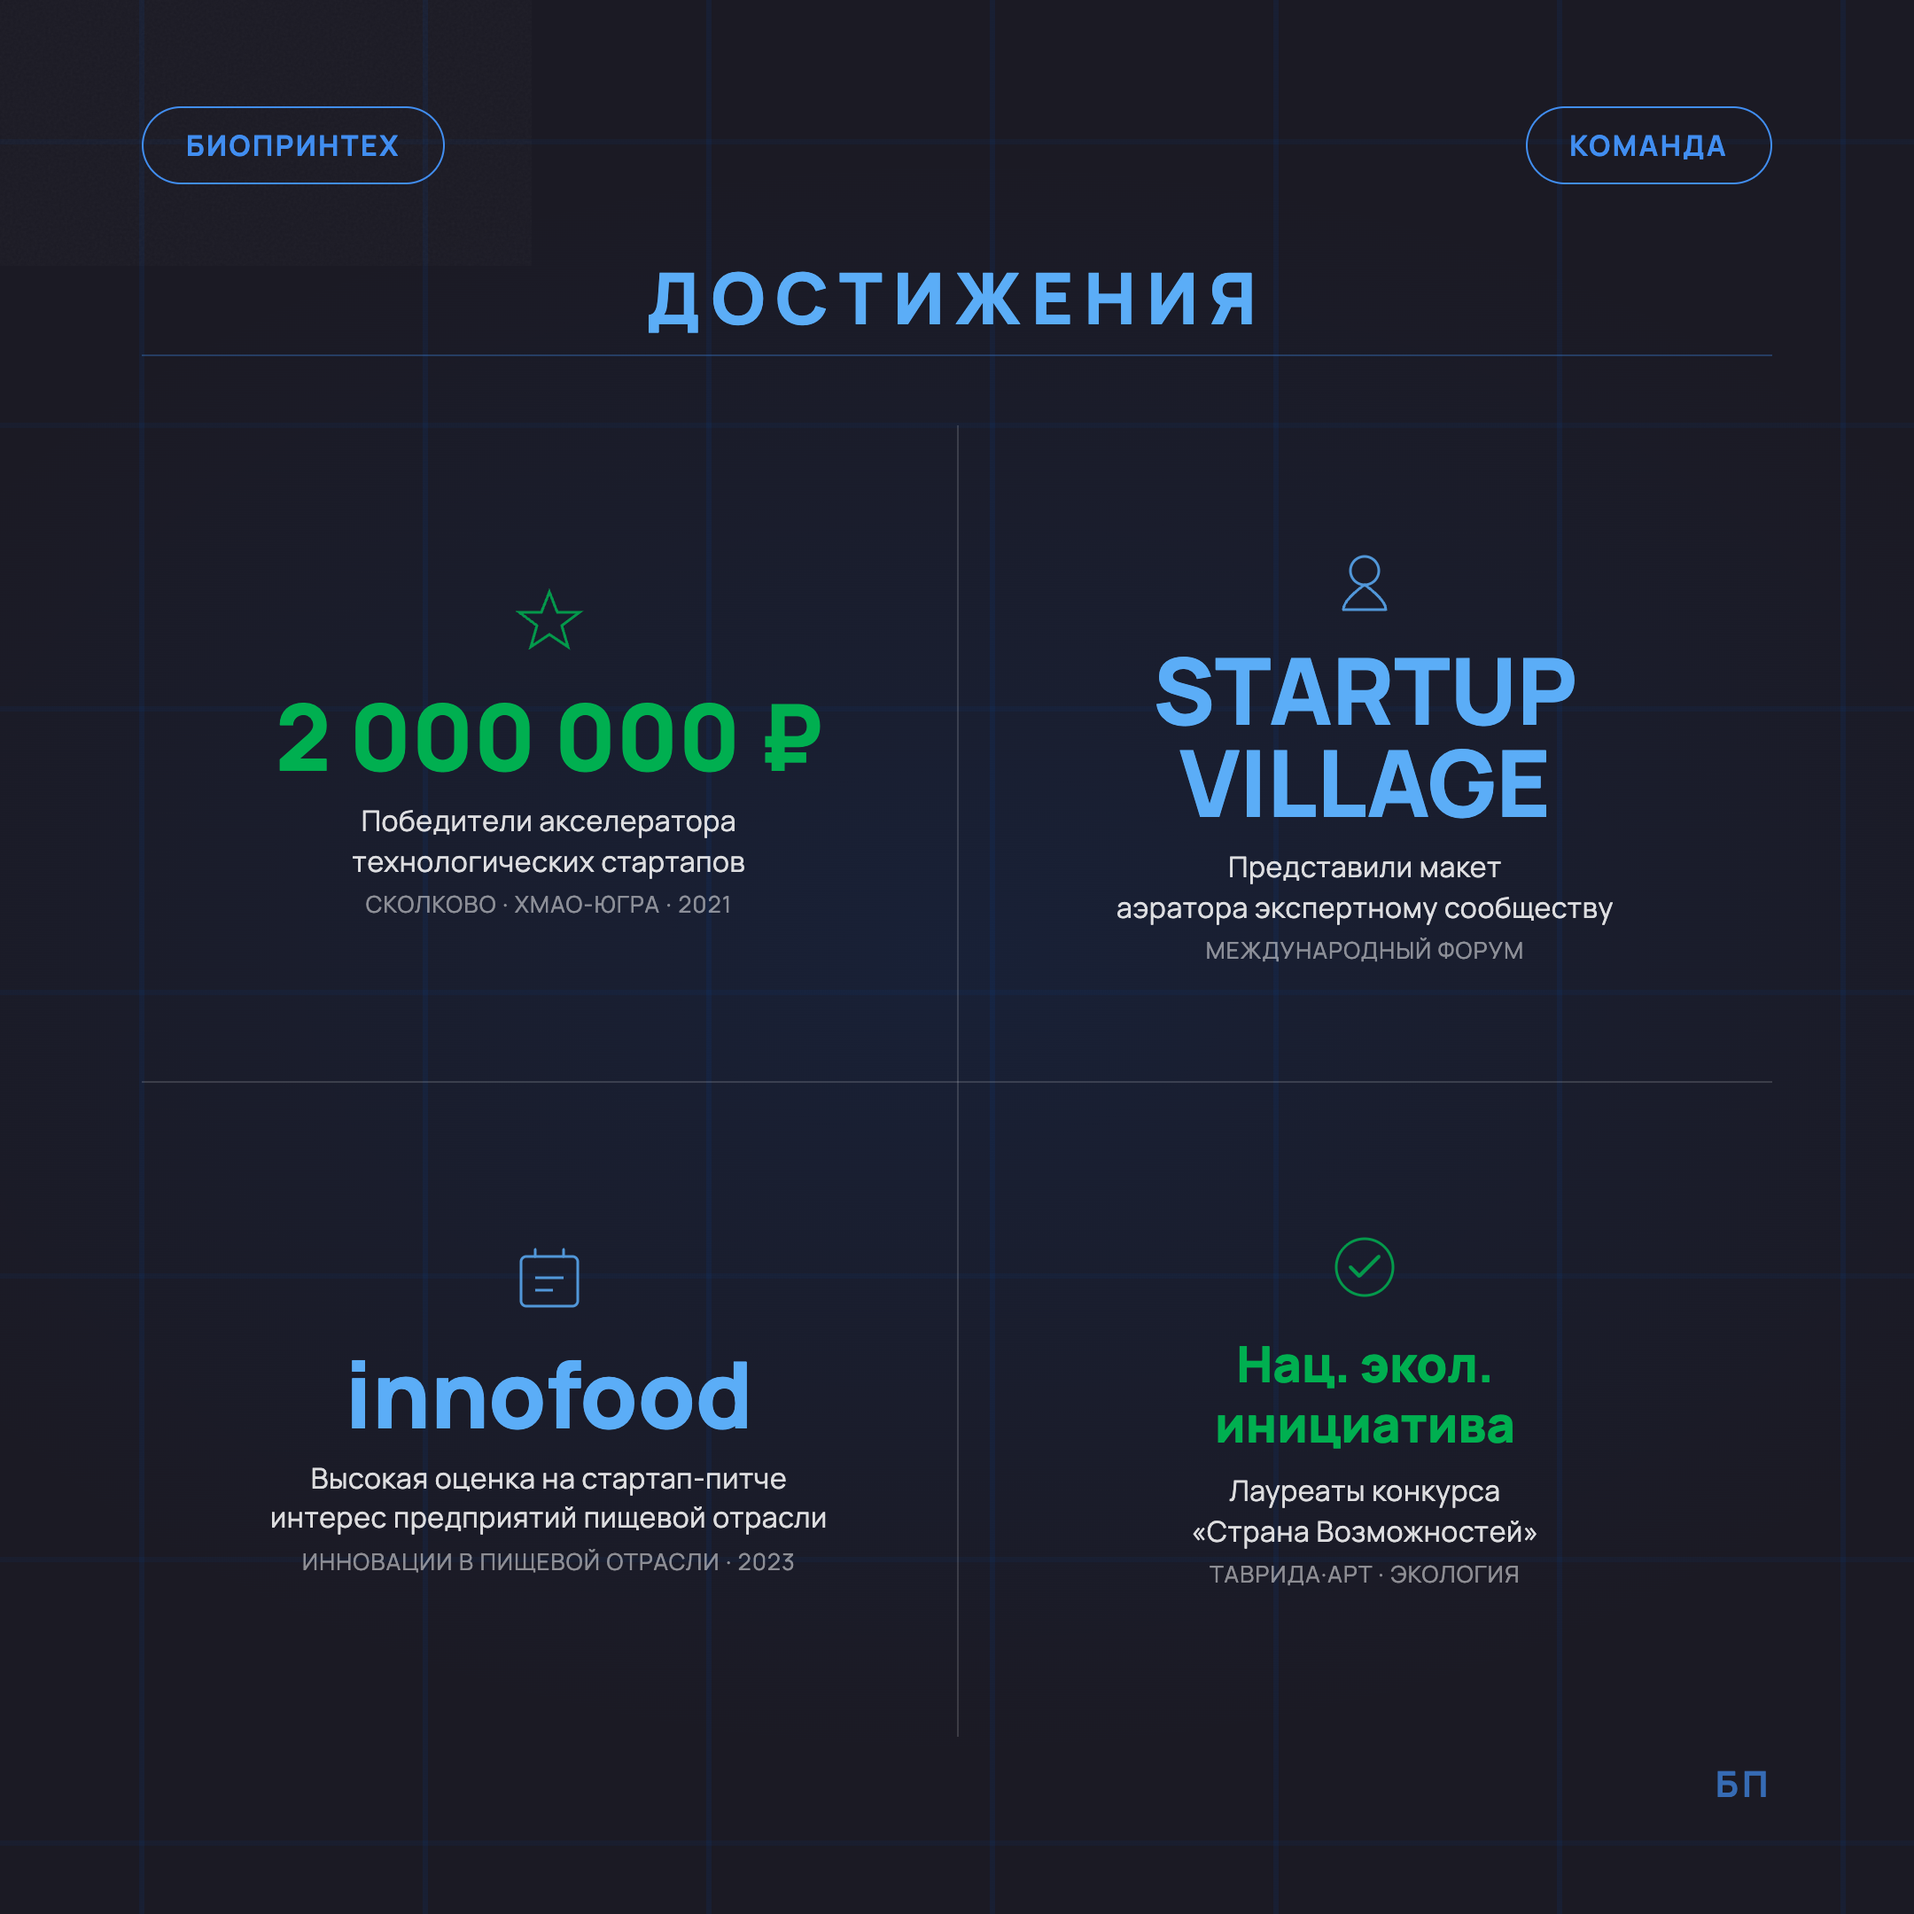
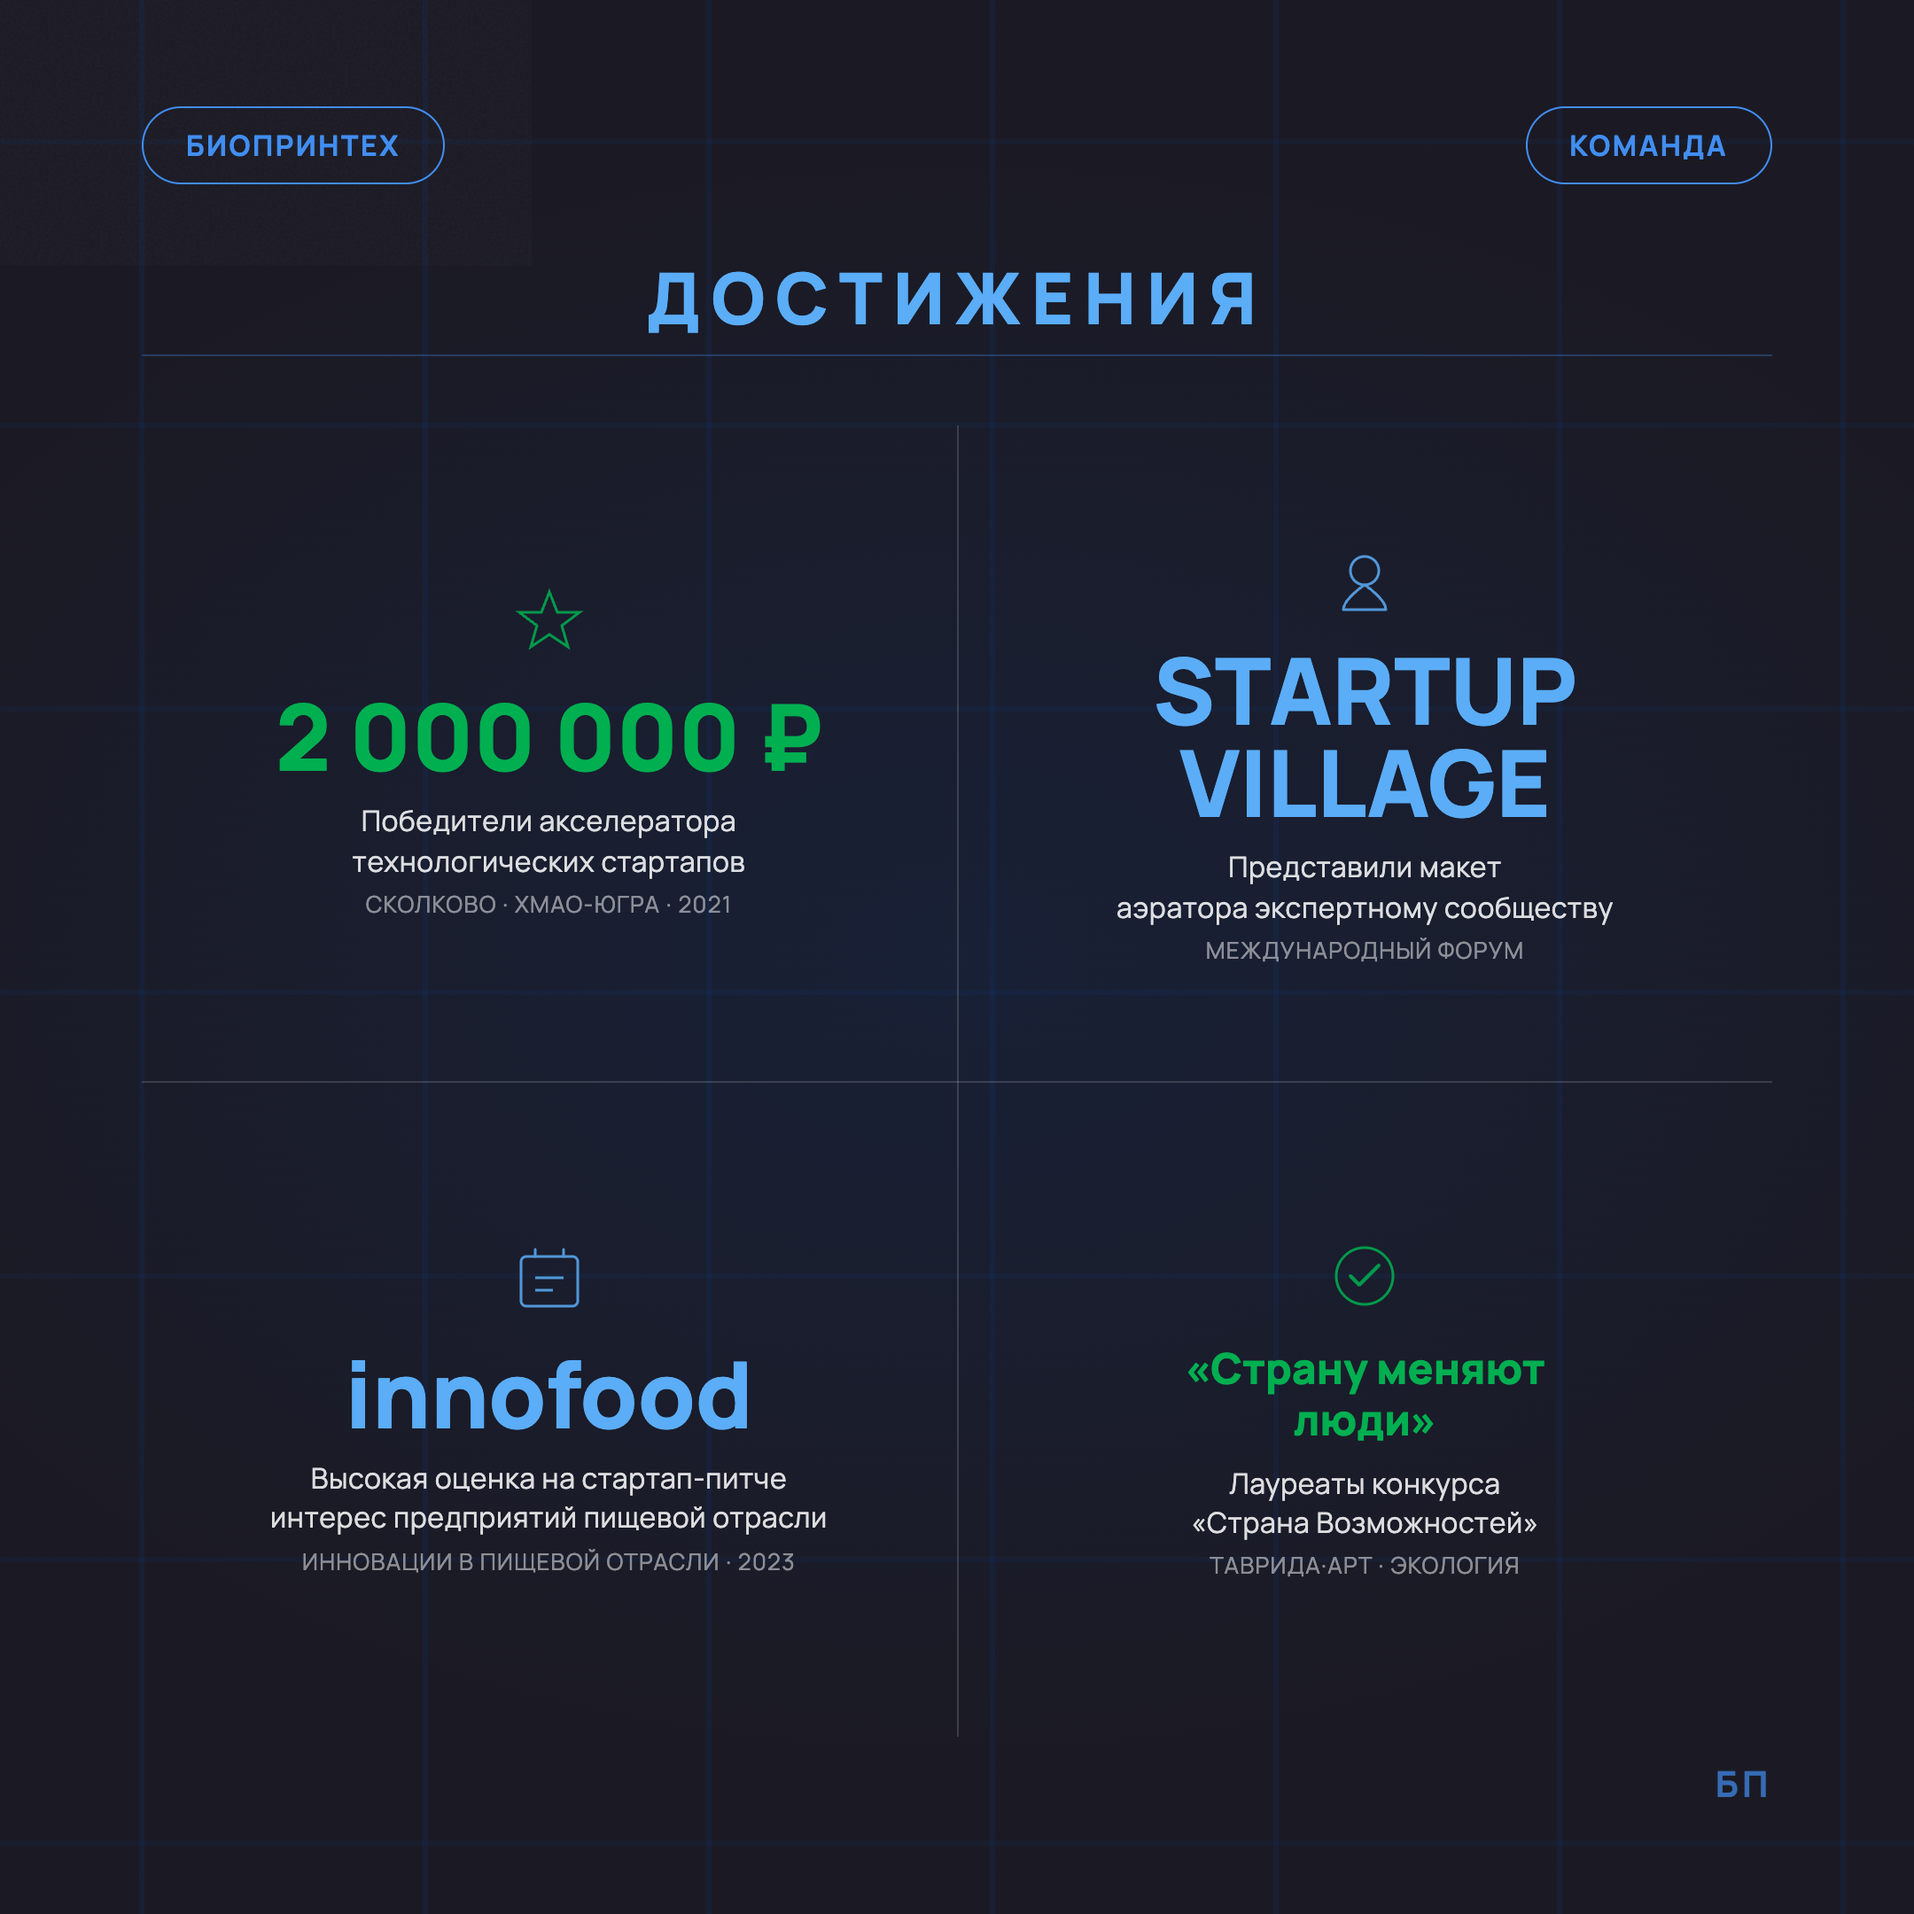
posts: slide_03 — «Страну меняют люди» вместо «Нац. экол. инициатива» — Bioprintex_Limatex

Changed region(s): [[0.6204, 0.6514, 0.8065, 0.8375]]

diff --git a/projects/Bioprintex_Limatex/posts/drafts/27_04_2026-1/slide_03.html b/projects/Bioprintex_Limatex/posts/drafts/27_04_2026-1/slide_03.html
@@ -273,7 +273,7 @@
         <circle cx="22" cy="22" r="16" stroke="#00AF50" stroke-width="1.5" fill="none"/>
         <path d="M14 22 L19 27 L30 16" stroke="#00AF50" stroke-width="2" stroke-linecap="round" stroke-linejoin="round"/>
       </svg>
-      <div class="achievement-number green" style="font-size:28px;line-height:1.2">Нац. экол.<br>инициатива</div>
+      <div class="achievement-number green" style="font-size:24px;line-height:1.2">«Страну меняют<br>люди»</div>
       <div class="achievement-label">Лауреаты конкурса<br>«Страна Возможностей»</div>
       <div class="achievement-sublabel">Таврида·Арт · Экология</div>
     </div>
